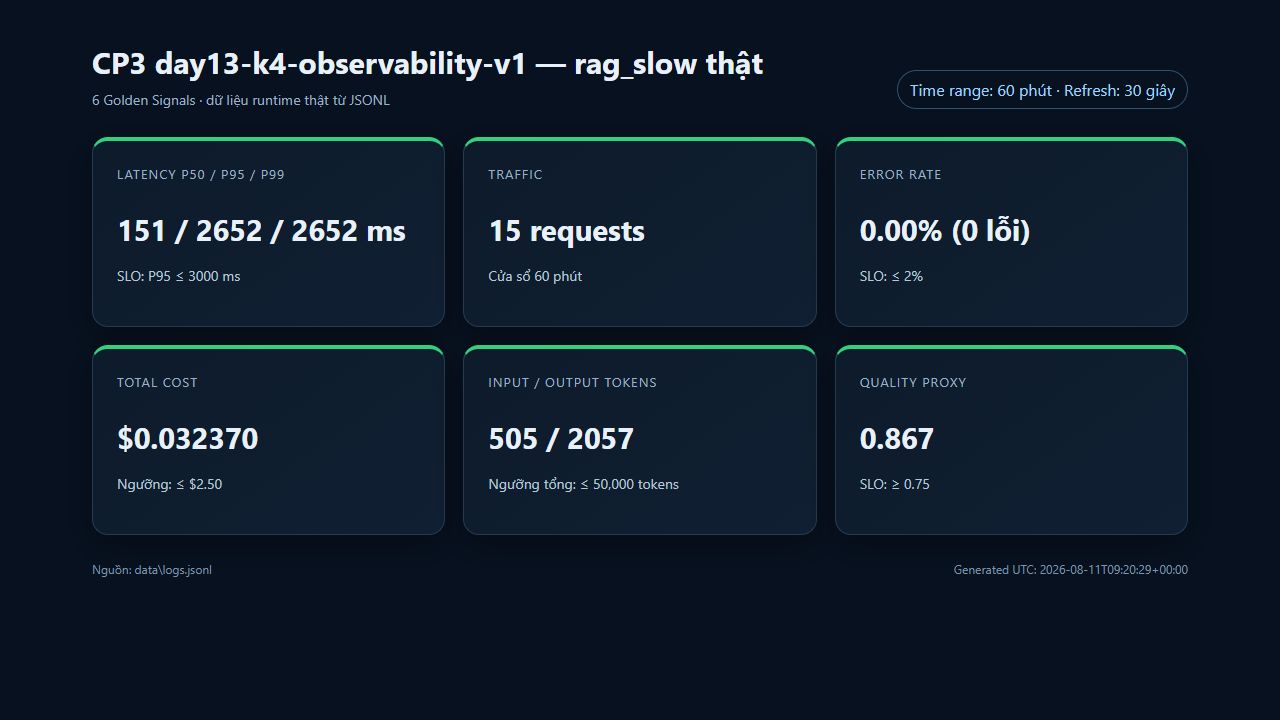
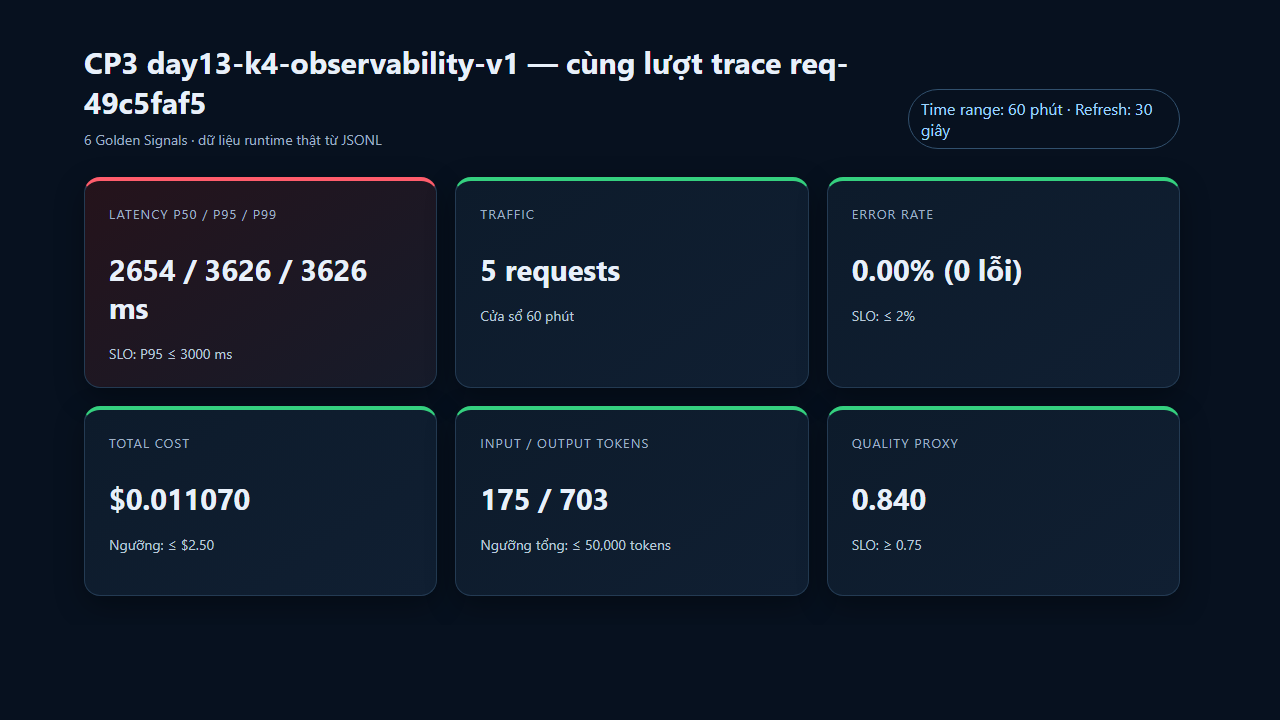
Chuẩn hóa evidence trước khi nộp

diff --git a/submission/evidence/cp3-dashboard-incident.html b/submission/evidence/cp3-dashboard-incident.html
@@ -3,7 +3,7 @@
 <head>
   <meta charset="utf-8">
   <meta name="viewport" content="width=device-width, initial-scale=1">
-  <title>CP3 day13-k4-observability-v1 — rag_slow thật</title>
+  <title>CP3 day13-k4-observability-v1 — cùng lượt trace req-49c5faf5</title>
   <style>
     :root { color-scheme: dark; font-family: Inter, Segoe UI, sans-serif; }
     * { box-sizing: border-box; }
@@ -26,17 +26,17 @@
 <body>
   <main>
     <header>
-      <div><h1>CP3 day13-k4-observability-v1 — rag_slow thật</h1><div class="subtitle">6 Golden Signals · dữ liệu runtime thật từ JSONL</div></div>
+      <div><h1>CP3 day13-k4-observability-v1 — cùng lượt trace req-49c5faf5</h1><div class="subtitle">6 Golden Signals · dữ liệu runtime thật từ JSONL</div></div>
       <div class="badge">Time range: 60 phút · Refresh: 30 giây</div>
     </header>
-    <div class="grid"><section class="card ok">
+    <div class="grid"><section class="card alert">
   <div class="card-title">Latency P50 / P95 / P99</div>
-  <div class="card-value">151 / 2652 / 2652 ms</div>
+  <div class="card-value">2654 / 3626 / 3626 ms</div>
   <div class="card-detail">SLO: P95 ≤ 3000 ms</div>
 </section>
 <section class="card ok">
   <div class="card-title">Traffic</div>
-  <div class="card-value">15 requests</div>
+  <div class="card-value">5 requests</div>
   <div class="card-detail">Cửa sổ 60 phút</div>
 </section>
 <section class="card ok">
@@ -46,21 +46,21 @@
 </section>
 <section class="card ok">
   <div class="card-title">Total cost</div>
-  <div class="card-value">$0.032370</div>
+  <div class="card-value">$0.011070</div>
   <div class="card-detail">Ngưỡng: ≤ $2.50</div>
 </section>
 <section class="card ok">
   <div class="card-title">Input / Output tokens</div>
-  <div class="card-value">505 / 2057</div>
+  <div class="card-value">175 / 703</div>
   <div class="card-detail">Ngưỡng tổng: ≤ 50,000 tokens</div>
 </section>
 <section class="card ok">
   <div class="card-title">Quality proxy</div>
-  <div class="card-value">0.867</div>
+  <div class="card-value">0.840</div>
   <div class="card-detail">SLO: ≥ 0.75</div>
 </section>
 </div>
-    <footer><span>Nguồn: data\logs.jsonl</span><span>Generated UTC: 2026-08-11T09:24:34+00:00</span></footer>
+    <footer><span>Nguồn: data\logs.jsonl</span><span>Generated UTC: 2026-08-11T10:29:37+00:00</span></footer>
   </main>
 </body>
 </html>

diff --git a/scripts/render_dashboard.py b/scripts/render_dashboard.py
@@ -17,7 +17,10 @@ def percentile(values: list[float], p: int) -> float:
 
 
 def load_records(
-    path: Path, window_minutes: int = 60, take_first: int | None = None
+    path: Path,
+    window_minutes: int = 60,
+    take_first: int | None = None,
+    take_last: int | None = None,
 ) -> list[dict]:
     records: list[dict] = []
     for line in path.read_text(encoding="utf-8").splitlines():
@@ -32,6 +35,8 @@ def load_records(
 
     if take_first is not None:
         records = records[:take_first]
+    if take_last is not None:
+        records = records[-take_last:]
     if not records:
         return []
     newest = max(record["_timestamp"] for record in records)
@@ -167,9 +172,20 @@ def main() -> int:
         type=int,
         help="Chỉ dùng số record đầu tiên để tái tạo một snapshot evidence đã ghi nhận.",
     )
+    parser.add_argument(
+        "--take-last",
+        type=int,
+        help="Chỉ dùng số record cuối cùng để tạo snapshot của lượt chạy mới nhất.",
+    )
     args = parser.parse_args()
 
-    records = load_records(args.input, take_first=args.take_first)
+    if args.take_first is not None and args.take_last is not None:
+        parser.error("--take-first và --take-last không được dùng đồng thời")
+    records = load_records(
+        args.input,
+        take_first=args.take_first,
+        take_last=args.take_last,
+    )
     if not records:
         raise SystemExit(f"Không có log hợp lệ trong {args.input}")
     metrics = calculate(records)

diff --git a/tests/test_render_dashboard.py b/tests/test_render_dashboard.py
@@ -1,8 +1,10 @@
 from __future__ import annotations
 
+import json
 from datetime import datetime, timezone
+from pathlib import Path
 
-from scripts.render_dashboard import calculate, render
+from scripts.render_dashboard import calculate, load_records, render
 
 
 def test_runtime_dashboard_contains_six_required_panels() -> None:
@@ -33,3 +35,24 @@ def test_runtime_dashboard_contains_six_required_panels() -> None:
         assert panel_title in page
     assert "150 / 150 / 150 ms" in page
     assert "0.00% (0 lỗi)" in page
+
+
+def test_load_records_can_select_latest_run(tmp_path: Path) -> None:
+    path = tmp_path / "logs.jsonl"
+    path.write_text(
+        "\n".join(
+            json.dumps(
+                {
+                    "ts": f"2026-08-11T10:00:0{index}Z",
+                    "event": "request_received",
+                    "sequence": index,
+                }
+            )
+            for index in range(5)
+        ),
+        encoding="utf-8",
+    )
+
+    records = load_records(path, take_last=2)
+
+    assert [record["sequence"] for record in records] == [3, 4]

diff --git a/submission/REPORT.md b/submission/REPORT.md
@@ -4,8 +4,9 @@
 
 - Tên nhóm: K4-DAY13-2A202601424
 - Repository URL: https://github.com/quangha-dev/Day13-K4-2A202601424
-- Commit SHA kỹ thuật dùng làm mốc: `c77f491`; khi nộp lấy SHA mới nhất bằng `git rev-parse HEAD`.
-- Thành viên và vai trò:
+- Commit hoàn tất kỹ thuật/evidence hiện tại: `b9ef61b`; sau lần chuẩn hóa cuối, nộp SHA mới nhất từ `git rev-parse HEAD`.
+- Nhóm có 5 thành viên, được ánh xạ vào 4 workstream chính của README: Logging & PII (A, B); Tracing & Prompt Version (E); Dashboard/SLO/Alert (C, D); Incident/Report/Demo (E).
+- Thành viên và phần việc:
   - Thành viên A (Raijuz): API & Middleware.
   - Thành viên B (Huy): Security Engineer.
   - Thành viên C (Nguyễn Trần Nghĩa): Metrics & Dashboard.
@@ -15,10 +16,12 @@
 ## 2. Kết quả kỹ thuật
 
 - Điểm `validate_logs.py`: 100/100 — [`evidence/cp1-validate-logs.txt`](evidence/cp1-validate-logs.txt)
+- Baseline starter phục dựng từ commit gốc `b95464c`: 30/100, 10 request đều có correlation ID `MISSING`; xem [`evidence/cp0-baseline-validator.txt`](evidence/cp0-baseline-validator.txt). Sau CP1 đạt 100/100.
+- Health/API: `ok=true`, tracing bật, tất cả incident tắt; xem [`evidence/cp0-health.png`](evidence/cp0-health.png) và [`evidence/cp0-health.json`](evidence/cp0-health.json).
 - Tổng số traces: đã xác minh hơn 10 traces; riêng baseline có 10 trace ID trong [`evidence/cp2-trace-summary.json`](evidence/cp2-trace-summary.json) và ảnh danh sách [`evidence/cp2-trace-list-10.jpg`](evidence/cp2-trace-list-10.jpg).
 - Số PII leak còn lại: 0.
 - Link/đường dẫn dashboard: [`../config/dashboard.yaml`](../config/dashboard.yaml) và [`evidence/cp2-dashboard-6-panels.png`](evidence/cp2-dashboard-6-panels.png).
-- Public tests: 50 tests pass, 2 warning deprecation không ảnh hưởng kết quả.
+- Public và regression tests: 51 tests pass, 2 warning deprecation không ảnh hưởng kết quả.
 
 ## 3. Logging và tracing
 
@@ -71,7 +74,7 @@ python scripts/validate_logs.py
 - Version/label baseline: v1, labels `baseline` và `production` sau rollback.
 - Version/label candidate: v2, labels `candidate` và `latest` sau rollback.
 - Trace mỗi version: baseline v1 `686ab6ff4d29e9c63166872f3f02de45`; candidate v2 `8893a6f33bd250aa8f21850da9c6f410`. Evidence: [`evidence/cp2-prompt-baseline-trace.jpg`](evidence/cp2-prompt-baseline-trace.jpg), [`evidence/cp2-prompt-candidate-trace.jpg`](evidence/cp2-prompt-candidate-trace.jpg) và [`evidence/cp2-prompt-version-evidence.json`](evidence/cp2-prompt-version-evidence.json).
-- Rollback thật: gán `production` cho v2 và tạo trace `b248cf5fd57de58321ad05caffaf67b5`, sau đó chuyển `production` về v1 và tạo trace `7c127e4ab129ed90ced9a101720b380b`. Evidence: [`evidence/cp2-prompt-versions.jpg`](evidence/cp2-prompt-versions.jpg), [`evidence/cp2-prompt-rollback.json`](evidence/cp2-prompt-rollback.json).
+- Rollback thật: gán `production` cho v2 và tạo trace `b248cf5fd57de58321ad05caffaf67b5`, sau đó chuyển `production` về v1 và tạo trace `7c127e4ab129ed90ced9a101720b380b`. Ảnh trước/sau thật: [`evidence/cp2-prompt-production-v2-before-rollback.jpg`](evidence/cp2-prompt-production-v2-before-rollback.jpg), [`evidence/cp2-prompt-production-v1-after-rollback.jpg`](evidence/cp2-prompt-production-v1-after-rollback.jpg); đối chiếu [`evidence/cp2-prompt-rollback.json`](evidence/cp2-prompt-rollback.json).
 
 ## 5. Dashboard, SLO và alerts
 
@@ -92,9 +95,9 @@ python scripts/validate_logs.py
 ## 6. Điều tra challenge
 
 - Challenge ID: `day13-k4-observability-v1` (`rag_slow`, affected feature `monitoring`, threshold 2000 ms).
-- Triệu chứng từ metrics: P95 tăng từ 152 ms lên 2652 ms; error rate vẫn 0%. Sau disable/restart, P95 hồi phục về 151 ms. Evidence: [`evidence/cp3-metrics-incident.png`](evidence/cp3-metrics-incident.png), [`evidence/cp3-metrics-baseline.json`](evidence/cp3-metrics-baseline.json), [`evidence/cp3-metrics-incident.json`](evidence/cp3-metrics-incident.json), [`evidence/cp3-metrics-recovery.json`](evidence/cp3-metrics-recovery.json).
-- Trace ID liên quan: `e3231aac6ff949c43aad35d92239f822`; waterfall thật cho thấy `run=3621 ms`, `retrieve=2501 ms`, `generate=151 ms`. Evidence: [`evidence/cp3-trace-waterfall.jpg`](evidence/cp3-trace-waterfall.jpg), [`evidence/cp3-trace-summary.json`](evidence/cp3-trace-summary.json) và [`evidence/cp3-component-timing.json`](evidence/cp3-component-timing.json).
-- Log line/correlation ID liên quan: `req-b2233268`, `response_sent.latency_ms=3619`; ID này khớp metadata trace Langfuse. Xem [`evidence/cp3-correlated-log.json`](evidence/cp3-correlated-log.json).
+- Triệu chứng từ metrics: baseline P95 152 ms; trong lượt challenge có tracing, P95 tăng lên 3626 ms và error rate vẫn 0%. Sau disable/restart, P50 hồi phục 152 ms, P95 1127 ms (cold fetch managed prompt) và vẫn dưới SLO 3000 ms. Evidence: [`evidence/cp3-metrics-incident.png`](evidence/cp3-metrics-incident.png), [`evidence/cp3-metrics-baseline.json`](evidence/cp3-metrics-baseline.json), [`evidence/cp3-metrics-incident.json`](evidence/cp3-metrics-incident.json), [`evidence/cp3-metrics-recovery.json`](evidence/cp3-metrics-recovery.json).
+- Trace ID liên quan: `61a5c25ea8a6d57fce2a3c4ea16489df`; waterfall thật cho thấy `run=3628 ms`, `retrieve=2501 ms`, `generate=151 ms`. Evidence: [`evidence/cp3-trace-waterfall.jpg`](evidence/cp3-trace-waterfall.jpg), [`evidence/cp3-trace-summary.json`](evidence/cp3-trace-summary.json) và [`evidence/cp3-component-timing.json`](evidence/cp3-component-timing.json).
+- Log line/correlation ID liên quan: `req-49c5faf5`, `response_sent.latency_ms=3626`; metrics, trace và log đều thuộc cùng lượt challenge. Xem [`evidence/cp3-correlated-log.json`](evidence/cp3-correlated-log.json).
 - Root cause: incident `rag_slow` thêm khoảng 2.5 giây trong RAG retrieval. Retrieval chiếm khoảng 94.3% thời gian hai component. Việc gọi sync `agent.run()` trong async endpoint còn khuếch đại client tail latency khi concurrency cao.
 - Fix action: disable route chậm; dùng cache/fallback retrieval; áp dụng timeout/circuit breaker; đưa tác vụ blocking sang worker/thread pool phù hợp.
 - Preventive measure: giữ sub-span retrieval/generation, alert P95 theo feature, load test concurrency trong CI và theo dõi chênh lệch client/internal latency. Báo cáo đầy đủ: [`evidence/cp3-investigation.md`](evidence/cp3-investigation.md).
@@ -109,5 +112,5 @@ Với mỗi thành viên, ghi rõ nhiệm vụ và link commit/PR tương ứng.
 | Huy (Thành viên B) | Recursive PII scrubbing, regex email/phone/CCCD/card/passport/address và security tests. | [Commit d8069a2](https://github.com/quangha-dev/Day13-K4-2A202601424/commit/d8069a2) | Scrubber phải chạy trước serializer và cần negative test để không phá metadata kỹ thuật. |
 | Nguyễn Trần Nghĩa (Thành viên C) | `error_rate_pct` zero-safe, unit tests và dashboard spec 6 Golden Signals. | [Commit 77d7033](https://github.com/quangha-dev/Day13-K4-2A202601424/commit/77d7033) | Percentile/error rate cần zero-safe; dashboard AI phải theo dõi thêm cost và quality. |
 | Hải (Thành viên D) | SLO và nền tảng runbook symptom-based; phần còn thiếu được hoàn thiện trong tích hợp CP2. | [Commit 167edaf](https://github.com/quangha-dev/Day13-K4-2A202601424/commit/167edaf) | Alert nên dựa trên triệu chứng/SLO và có ba bước điều tra đầu tiên rõ ràng. |
-| Nguyễn Quang Hà (Thành viên E) | QA tích hợp, sub-span RAG/LLM, correlation trace metadata, dashboard runtime, Prompt Management, điều tra CP3 và tổng hợp evidence/report. | Commits `05b5ab8`, `868771b`, `f0302ce`, `c77f491`; xem [`BAO_CAO_THANH_VIEN_E.md`](BAO_CAO_THANH_VIEN_E.md) | Metrics phát hiện triệu chứng; waterfall khoanh vùng retrieval; correlation ID nối trace với log. API key thật chỉ lưu cục bộ trong `.env`, không commit. |
+| Nguyễn Quang Hà (Thành viên E) | QA tích hợp, sub-span RAG/LLM, correlation trace metadata, dashboard runtime, Prompt Management, điều tra CP3 và tổng hợp evidence/report. | Commits `05b5ab8`, `868771b`, `f0302ce`, `c77f491`, `b9ef61b`; xem [`BAO_CAO_THANH_VIEN_E.md`](BAO_CAO_THANH_VIEN_E.md) | Metrics phát hiện triệu chứng; waterfall khoanh vùng retrieval; correlation ID nối trace với log. API key thật chỉ lưu cục bộ trong `.env`, không commit. |
 

diff --git a/submission/BAO_CAO_THANH_VIEN_E.md b/submission/BAO_CAO_THANH_VIEN_E.md
@@ -13,14 +13,13 @@ QA & Chief Investigator: kiểm thử tích hợp, tracing cho RAG/LLM, điều 
 - Ban đầu chưa có `.env`; sau khi được chủ project cho phép đã tạo key thật, lưu cục bộ trong `.env` bị Git ignore và không đưa secret vào evidence/commit.
 - Xác nhận `config/challenge.json` là bản release K4, không chỉnh sửa file này.
 
-### CP0 — Setup & baseline sau merge
+### CP0 — Setup & baseline
 
 - Tạo và sử dụng `.venv` cục bộ; dependencies cài từ `requirements.txt`.
-- Chạy health check thật: API trả `ok=true`, tất cả incident tắt, tracing chưa bật vì chưa có key.
-- Chạy toàn bộ public tests: 48 tests pass, chỉ có 2 warning deprecation.
-- Evidence: `evidence/cp0-health.json`, `evidence/cp0-pytest.txt`.
-
-Lưu ý trung thực: baseline starter trước khi A/B/C/D sửa không còn trong working tree sau khi pull. Kết quả ghi ở đây là baseline tích hợp hiện tại, không giả lập lại điểm thấp của starter.
+- Phục dựng commit starter gốc `b95464c` trong thư mục tạm bị Git ignore, chạy API và 10 query thật.
+- Baseline thật: 30/100; 20 records thiếu required fields, 20 records thiếu enrichment, 0 correlation ID hợp lệ và cả 10 response trả `MISSING`.
+- Chạy health check bản hoàn thiện: API trả `ok=true`, tracing bật, tất cả incident tắt.
+- Evidence: `evidence/cp0-baseline-validator.txt`, `evidence/cp0-health.png`, `evidence/cp0-health.json`, `evidence/cp0-pytest.txt`.
 
 ### CP1 — Structured logging, correlation ID và PII
 
@@ -47,18 +46,18 @@ Lưu ý trung thực: baseline starter trước khi A/B/C/D sửa không còn tr
 - Dashboard runtime baseline đọc 21 log records trong cửa sổ 60 phút: P95 152 ms, 10 requests, error rate 0%, cost 0.021645 USD, 330/1377 tokens, quality 0.88.
 - Ảnh thật: `evidence/cp2-dashboard-6-panels.png`; HTML nguồn: `evidence/cp2-dashboard-runtime.html`.
 - Alert rules không còn TODO; mỗi rule có severity, symptom-based condition, owner và runbook.
-- Full test sau thay đổi CP2: 50 tests pass.
+- Full test sau thay đổi CP2 và renderer evidence: 51 tests pass.
 - Langfuse thật có 10 baseline traces; trace waterfall chứa `run/retrieve/generate` và metadata correlation ID.
 - Tạo prompt `day13-chat` v1 (`baseline`) và v2 (`candidate`), chạy trace cho từng version.
-- Gán `production` cho v2 để kiểm chứng rồi rollback về v1; lưu trace ID trước/sau và ảnh labels cuối.
+- Gán `production` cho v2 để kiểm chứng rồi rollback về v1; lưu trace ID và ảnh trạng thái thật trước/sau. Hai ảnh trace hiển thị trực tiếp `prompt_name`, `prompt_label`, `prompt_version`.
 
 ### CP3 — Điều tra challenge thật
 
 - Challenge: `day13-k4-observability-v1`, incident `rag_slow`, feature `monitoring`, threshold 2000 ms.
-- Metrics: P95 tăng từ 152 ms lên 2652 ms; error rate vẫn 0%; sau disable/restart P95 hồi phục về 151 ms.
+- Metrics: baseline P95 152 ms; lượt challenge có tracing tăng lên 3626 ms, error rate vẫn 0%; sau disable/restart P50 về 152 ms và P95 1127 ms, vẫn dưới SLO.
 - Component timing: `retrieve=2512.5 ms`, `generate=150.7 ms`; retrieval chiếm khoảng 94.3%.
-- Langfuse waterfall: trace `e3231aac6ff949c43aad35d92239f822`, `run=3621 ms`, `retrieve=2501 ms`, `generate=151 ms`.
-- Log: correlation ID `req-b2233268` nối đúng trace trên với `request_received` và `response_sent.latency_ms=3619`.
+- Langfuse waterfall: trace `61a5c25ea8a6d57fce2a3c4ea16489df`, `run=3628 ms`, `retrieve=2501 ms`, `generate=151 ms`.
+- Log: correlation ID `req-49c5faf5` nối đúng metrics/trace trên với `request_received` và `response_sent.latency_ms=3626` trong cùng lượt chạy.
 - Phát hiện thêm: client tail latency 8–13 giây do sync `agent.run()` block async event loop khi concurrency=5.
 - Root cause, mitigation, fix và preventive measure được ghi trong `evidence/cp3-investigation.md`.
 
@@ -70,7 +69,7 @@ Lưu ý trung thực: baseline starter trước khi A/B/C/D sửa không còn tr
 
 ### Nghiệm thu cuối
 
-- `pytest`: 50 passed, 2 warning deprecation; lần chạy đầu gặp lỗi quyền thư mục temp hệ thống Windows, chạy lại với `--basetemp` trong `.venv` đã pass đầy đủ.
-- `validate_logs.py`: 100/100 trên 87 records, 42 correlation IDs, PII leak = 0.
+- `pytest`: 51 passed, 2 warning deprecation; lần chạy đầu gặp lỗi quyền thư mục temp hệ thống Windows, chạy lại với `--basetemp` trong `.venv` đã pass đầy đủ.
+- `validate_logs.py`: 100/100 trên 111 records, 54 correlation IDs, PII leak = 0.
 - `validate_dashboard.py`: hợp lệ 6/6 panel.
 - `.env` và `.venv` đều bị Git ignore; secret scan file tracked không phát hiện key thật; `config/challenge.json` không khác `origin/main`.

diff --git a/submission/EVIDENCE_CHECKLIST.md b/submission/EVIDENCE_CHECKLIST.md
@@ -1,14 +1,14 @@
 # Kiểm kê evidence trước khi nộp
 
-Cập nhật sau lần chạy tích hợp và thu thập Langfuse thật ngày 11/08/2026. Ký hiệu: ✅ đã có và kiểm tra được; ⚠ hạn chế lịch sử đã giải trình.
+Cập nhật sau lần chạy tích hợp và thu thập Langfuse thật ngày 11/08/2026. Ký hiệu: ✅ đã có và kiểm tra được.
 
 ## CP0 — Setup
 
 | Yêu cầu | Trạng thái | File |
 |---|---:|---|
-| Health/API chạy | ✅ | `evidence/cp0-health.json` |
+| Health/API chạy | ✅ | `evidence/cp0-health.png`, `evidence/cp0-health.json` |
 | Public tests pass | ✅ | `evidence/cp0-pytest.txt` |
-| Baseline starter trước khi sửa | ⚠ | Không thể tái tạo trung thực sau khi đã pull code của A–D; report đã ghi rõ hạn chế này. Không nằm trong danh sách evidence bắt buộc của `SUBMISSION.md`. |
+| Baseline starter trước khi sửa | ✅ | `evidence/cp0-baseline-validator.txt` — phục dựng commit gốc `b95464c`, score 30/100. |
 
 ## CP1 — Logging, correlation ID và PII
 
@@ -33,15 +33,15 @@ Cập nhật sau lần chạy tích hợp và thu thập Langfuse thật ngày 1
 | Danh sách ít nhất 10 Langfuse traces | ✅ | `evidence/cp2-trace-list-10.jpg`, `evidence/cp2-trace-summary.json` |
 | Một trace waterfall có run/retrieve/generate | ✅ | `evidence/cp2-trace-waterfall.jpg` |
 | Prompt v1/v2 và labels | ✅ | `evidence/cp2-prompt-versions.jpg`, `evidence/cp2-prompt-version-evidence.json` |
-| Hai trace gắn đúng prompt version/label | ✅ | `evidence/cp2-prompt-baseline-trace.jpg`, `evidence/cp2-prompt-candidate-trace.jpg` |
-| Đổi label hoặc rollback production | ✅ | `evidence/cp2-prompt-rollback.json`, `evidence/cp2-prompt-versions.jpg` |
+| Hai trace gắn đúng prompt version/label | ✅ | `evidence/cp2-prompt-baseline-trace.jpg`, `evidence/cp2-prompt-candidate-trace.jpg` — thấy trực tiếp name/label/version. |
+| Đổi label hoặc rollback production | ✅ | `evidence/cp2-prompt-production-v2-before-rollback.jpg`, `evidence/cp2-prompt-production-v1-after-rollback.jpg`, `evidence/cp2-prompt-rollback.json` |
 
 ## CP3 — Challenge
 
 | Yêu cầu | Trạng thái | File |
 |---|---:|---|
 | Metrics baseline | ✅ | `evidence/cp3-metrics-baseline.json` |
-| Metrics incident | ✅ | `evidence/cp3-metrics-incident.json`, `evidence/cp3-metrics-incident.png` |
+| Metrics incident cùng lượt trace/log | ✅ | `evidence/cp3-metrics-incident.json`, `evidence/cp3-metrics-incident.png` |
 | Load test challenge thật | ✅ | `evidence/cp3-load-test.txt` |
 | Correlated log thật | ✅ | `evidence/cp3-correlated-log.json` |
 | Component timing thật | ✅ | `evidence/cp3-component-timing.json` |

diff --git a/submission/evidence/cp3-investigation.md b/submission/evidence/cp3-investigation.md
@@ -3,7 +3,7 @@
 ## 1. Metrics — phát hiện triệu chứng
 
 - Baseline P95: **152 ms**.
-- Khi bật challenge `rag_slow`: P95 tăng lên **2652 ms**, vượt threshold challenge **2000 ms** khoảng 32.6%.
+- Khi bật challenge `rag_slow`: P95 tăng lên **3626 ms**, vượt threshold challenge **2000 ms** khoảng 81.3%.
 - Error rate vẫn 0%, cost và quality gần như không đổi. Sự cố thuộc nhóm latency, không phải lỗi HTTP hay cost spike.
 - Evidence: `cp3-metrics-baseline.json`, `cp3-metrics-incident.json`, `cp3-metrics-incident.png`.
 
@@ -11,14 +11,14 @@
 
 - Code đã gắn `@observe(as_type="span")` cho `retrieve` và `generate`.
 - Phép đo runtime cùng scenario cho thấy `retrieve=2512.5 ms`, `generate=150.7 ms`; retrieval chiếm khoảng **94.3%** tổng thời gian hai component.
-- Waterfall Langfuse thật của trace `e3231aac6ff949c43aad35d92239f822` cho thấy `run=3621 ms`, `retrieve=2501 ms`, `generate=151 ms`, correlation ID `req-b2233268`.
+- Waterfall Langfuse thật của trace `61a5c25ea8a6d57fce2a3c4ea16489df` cho thấy `run=3628 ms`, `retrieve=2501 ms`, `generate=151 ms`, correlation ID `req-49c5faf5`.
 - Evidence: `cp3-component-timing.json`, `cp3-trace-summary.json`, `cp3-trace-waterfall.jpg`.
 
 ## 3. Logs — chứng minh request bị ảnh hưởng
 
-- Control log xác nhận `incident_enabled` với payload `rag_slow` lúc `2026-08-11T09:47:03.064950Z`.
-- Request `req-b2233268`, feature `monitoring`, session `k4-challenge-s01` có `response_sent.latency_ms=3619` và khớp metadata trace Langfuse.
-- Bốn request challenge còn lại đều có latency nội bộ 2651–2652 ms.
+- Control log xác nhận `incident_enabled` với payload `rag_slow` lúc `2026-08-11T10:25:48.148542Z`.
+- Request `req-49c5faf5`, feature `monitoring`, session `k4-challenge-s02` có `response_sent.latency_ms=3626` và khớp metadata trace Langfuse.
+- Bốn request challenge còn lại có latency nội bộ 2652–2657 ms; request được chọn có cold fetch managed prompt nên đạt 3626 ms và trở thành P95.
 - Evidence: `cp3-correlated-log.json`, `cp3-load-test.txt`.
 
 ## 4. Root cause và yếu tố khuếch đại
@@ -35,5 +35,5 @@
 ## 6. Recovery
 
 - Sau khi disable incident và restart process để reset metrics, chạy lại đúng 5 query challenge.
-- P95 hồi phục từ 2652 ms về **151 ms**, error rate vẫn 0%.
+- Sau restart có tracing, P50 hồi phục về **152 ms**; P95 là **1127 ms** do lần tải managed prompt đầu tiên nhưng vẫn thấp hơn SLO 3000 ms. Error rate vẫn 0%.
 - Evidence: `cp3-metrics-recovery.json`.
